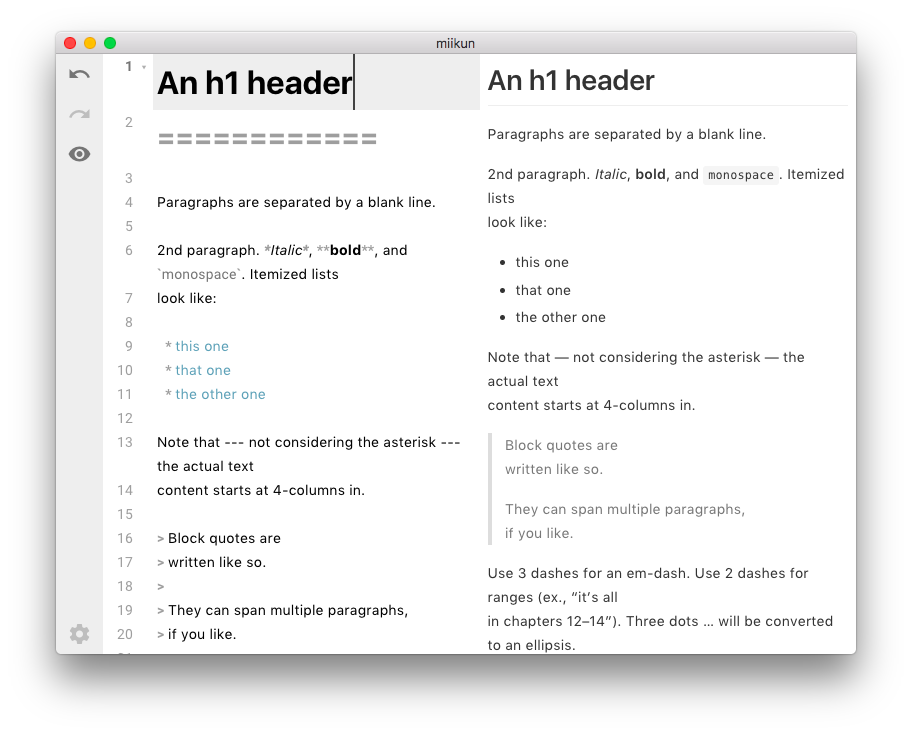
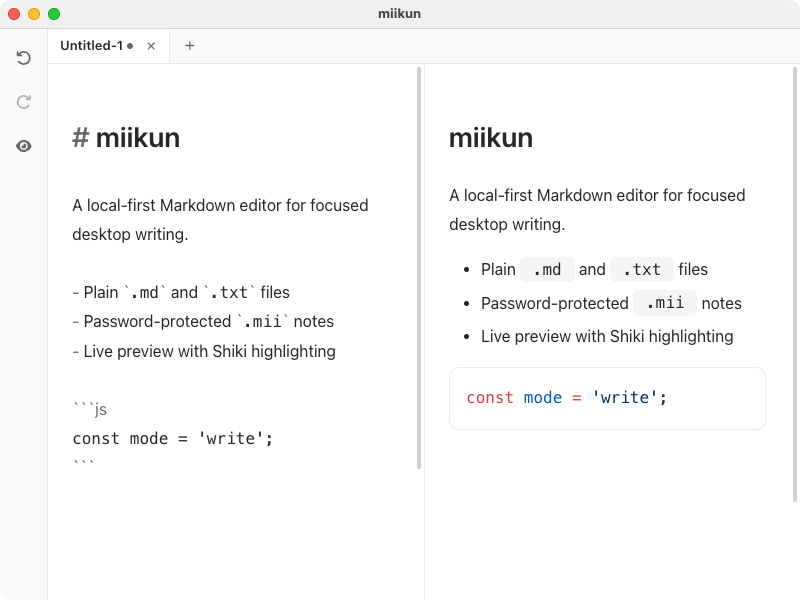
Refresh README for focused writing

Changed region(s): [[0.0, 0.0, 1.0, 0.96], [0.0938, 0.33, 0.4688, 0.42], [0.0938, 0.72, 0.3438, 0.78]]

diff --git a/README.md b/README.md
@@ -1,26 +1,107 @@
 # miikun
 
-> A Simple Markdown Editor
+> A simple Markdown editor built for focused writing.
 
-<img src="screenshot.png">
+![miikun screenshot](screenshot.png)
 
-## Build Setup
+miikun is an Electron + Vue 3 desktop Markdown editor I built because I wanted a simple place to write. It
+edits plain `.md` and `.txt` files, saves password-protected `.mii` files, and keeps the UI quiet so the
+document stays in front.
 
-``` bash
-# install dependencies
+Use it when you want local files, native desktop shortcuts, tabs, and preview without a workspace or account.
+
+## Highlights
+
+- Simple local editing for `.md`, `.txt`, and encrypted `.mii` files
+- Multi-tab workflow with dirty-state indicators, tab closing, and drag reordering
+- Optional live Markdown preview with tables, checkboxes, footnotes, anchors, definition lists, and Shiki
+  syntax highlighting
+- Password prompt for opening and saving `.mii` files
+- Native desktop menus and shortcuts for file, edit, preview, theme, zoom, and window controls
+- Light, dark, and system themes, plus an Always on Top mode for reference notes
+- Drag-and-drop file opening
+- URL paste helper that turns a pasted URL into a Markdown link when the page title can be read
+
+## Quick Start
+
+Prerequisites:
+
+- Node.js
+- npm
+
+Install dependencies and launch the Electron app:
+
+```bash
 npm install
+npm run electron:serve
+```
 
-# serve
+The development server runs on port `8888`. Browser-only `npm run serve` / `npm run build` scripts are not
+defined because the renderer uses Electron and Node APIs directly.
+
+## Everyday Use
+
+| Action | Shortcut / Path |
+| --- | --- |
+| New tab | `CmdOrCtrl+T` or `CmdOrCtrl+N` |
+| Open file | `CmdOrCtrl+O` or drag a file into the window |
+| Save | `CmdOrCtrl+S` |
+| Save as | `CmdOrCtrl+Shift+S` |
+| Close tab | `CmdOrCtrl+W` |
+| Next / previous tab | `Ctrl+Tab` / `Ctrl+Shift+Tab` |
+| Toggle preview | `View` -> `Toggle Preview Panel` |
+| Change theme | `View` -> `Theme` |
+| Always on Top | `CmdOrCtrl+Shift+T` |
+
+To create an encrypted note, save the document with the `.mii` extension and enter a password. Opening that
+file later asks for the password before the content is loaded.
+
+## Development
+
+```bash
+# Run the Electron app in development
 npm run electron:serve
 
-# build electron app for production
+# Build the production desktop app
 npm run electron:build
 
-# lint all JS/Vue component files in `app/src`
+# Lint JavaScript and Vue files
 npm run lint
+
+# Check SCSS
+npm run lint:scss
+
+# Auto-format SCSS
+npm run format:scss
 ```
-More information can be found [here](https://simulatedgreg.gitbooks.io/electron-vue/content/).
 
----
+The current production build configuration targets a macOS zip package.
 
-This project was generated from [electron-vue](https://github.com/SimulatedGREG/electron-vue) using [vue-cli](https://github.com/vuejs/vue-cli). Documentation about this project can be found [here](https://simulatedgreg.gitbooks.io/electron-vue/content/index.html).
+## Architecture
+
+miikun keeps the Electron main process small and puts the editor workflow in the Vue renderer. Third-party
+libraries are isolated behind adapter modules so the rest of the app depends on app-facing APIs instead of
+direct library imports.
+
+Key areas:
+
+- `src/adapters/` wraps CodeMirror, markdown-it/Shiki, filesystem, encryption, and Electron APIs
+- `src/services/` owns editor commands, file operations, render sequencing, menus, and tab document state
+- `src/components/` contains the editor, tab bar, toolbar, drag-and-drop overlay, and password prompt
+- `docs/architecture/editor-boundaries.md` explains editor/file/preview/command ownership in more detail
+
+## Contributing
+
+Issues and focused pull requests are welcome. Before opening a PR, run:
+
+```bash
+npm run lint
+npm run lint:scss
+```
+
+There is no automated test suite yet. For changes that affect behavior, also launch the app with
+`npm run electron:serve` and verify the edited workflow manually.
+
+## License
+
+MIT
